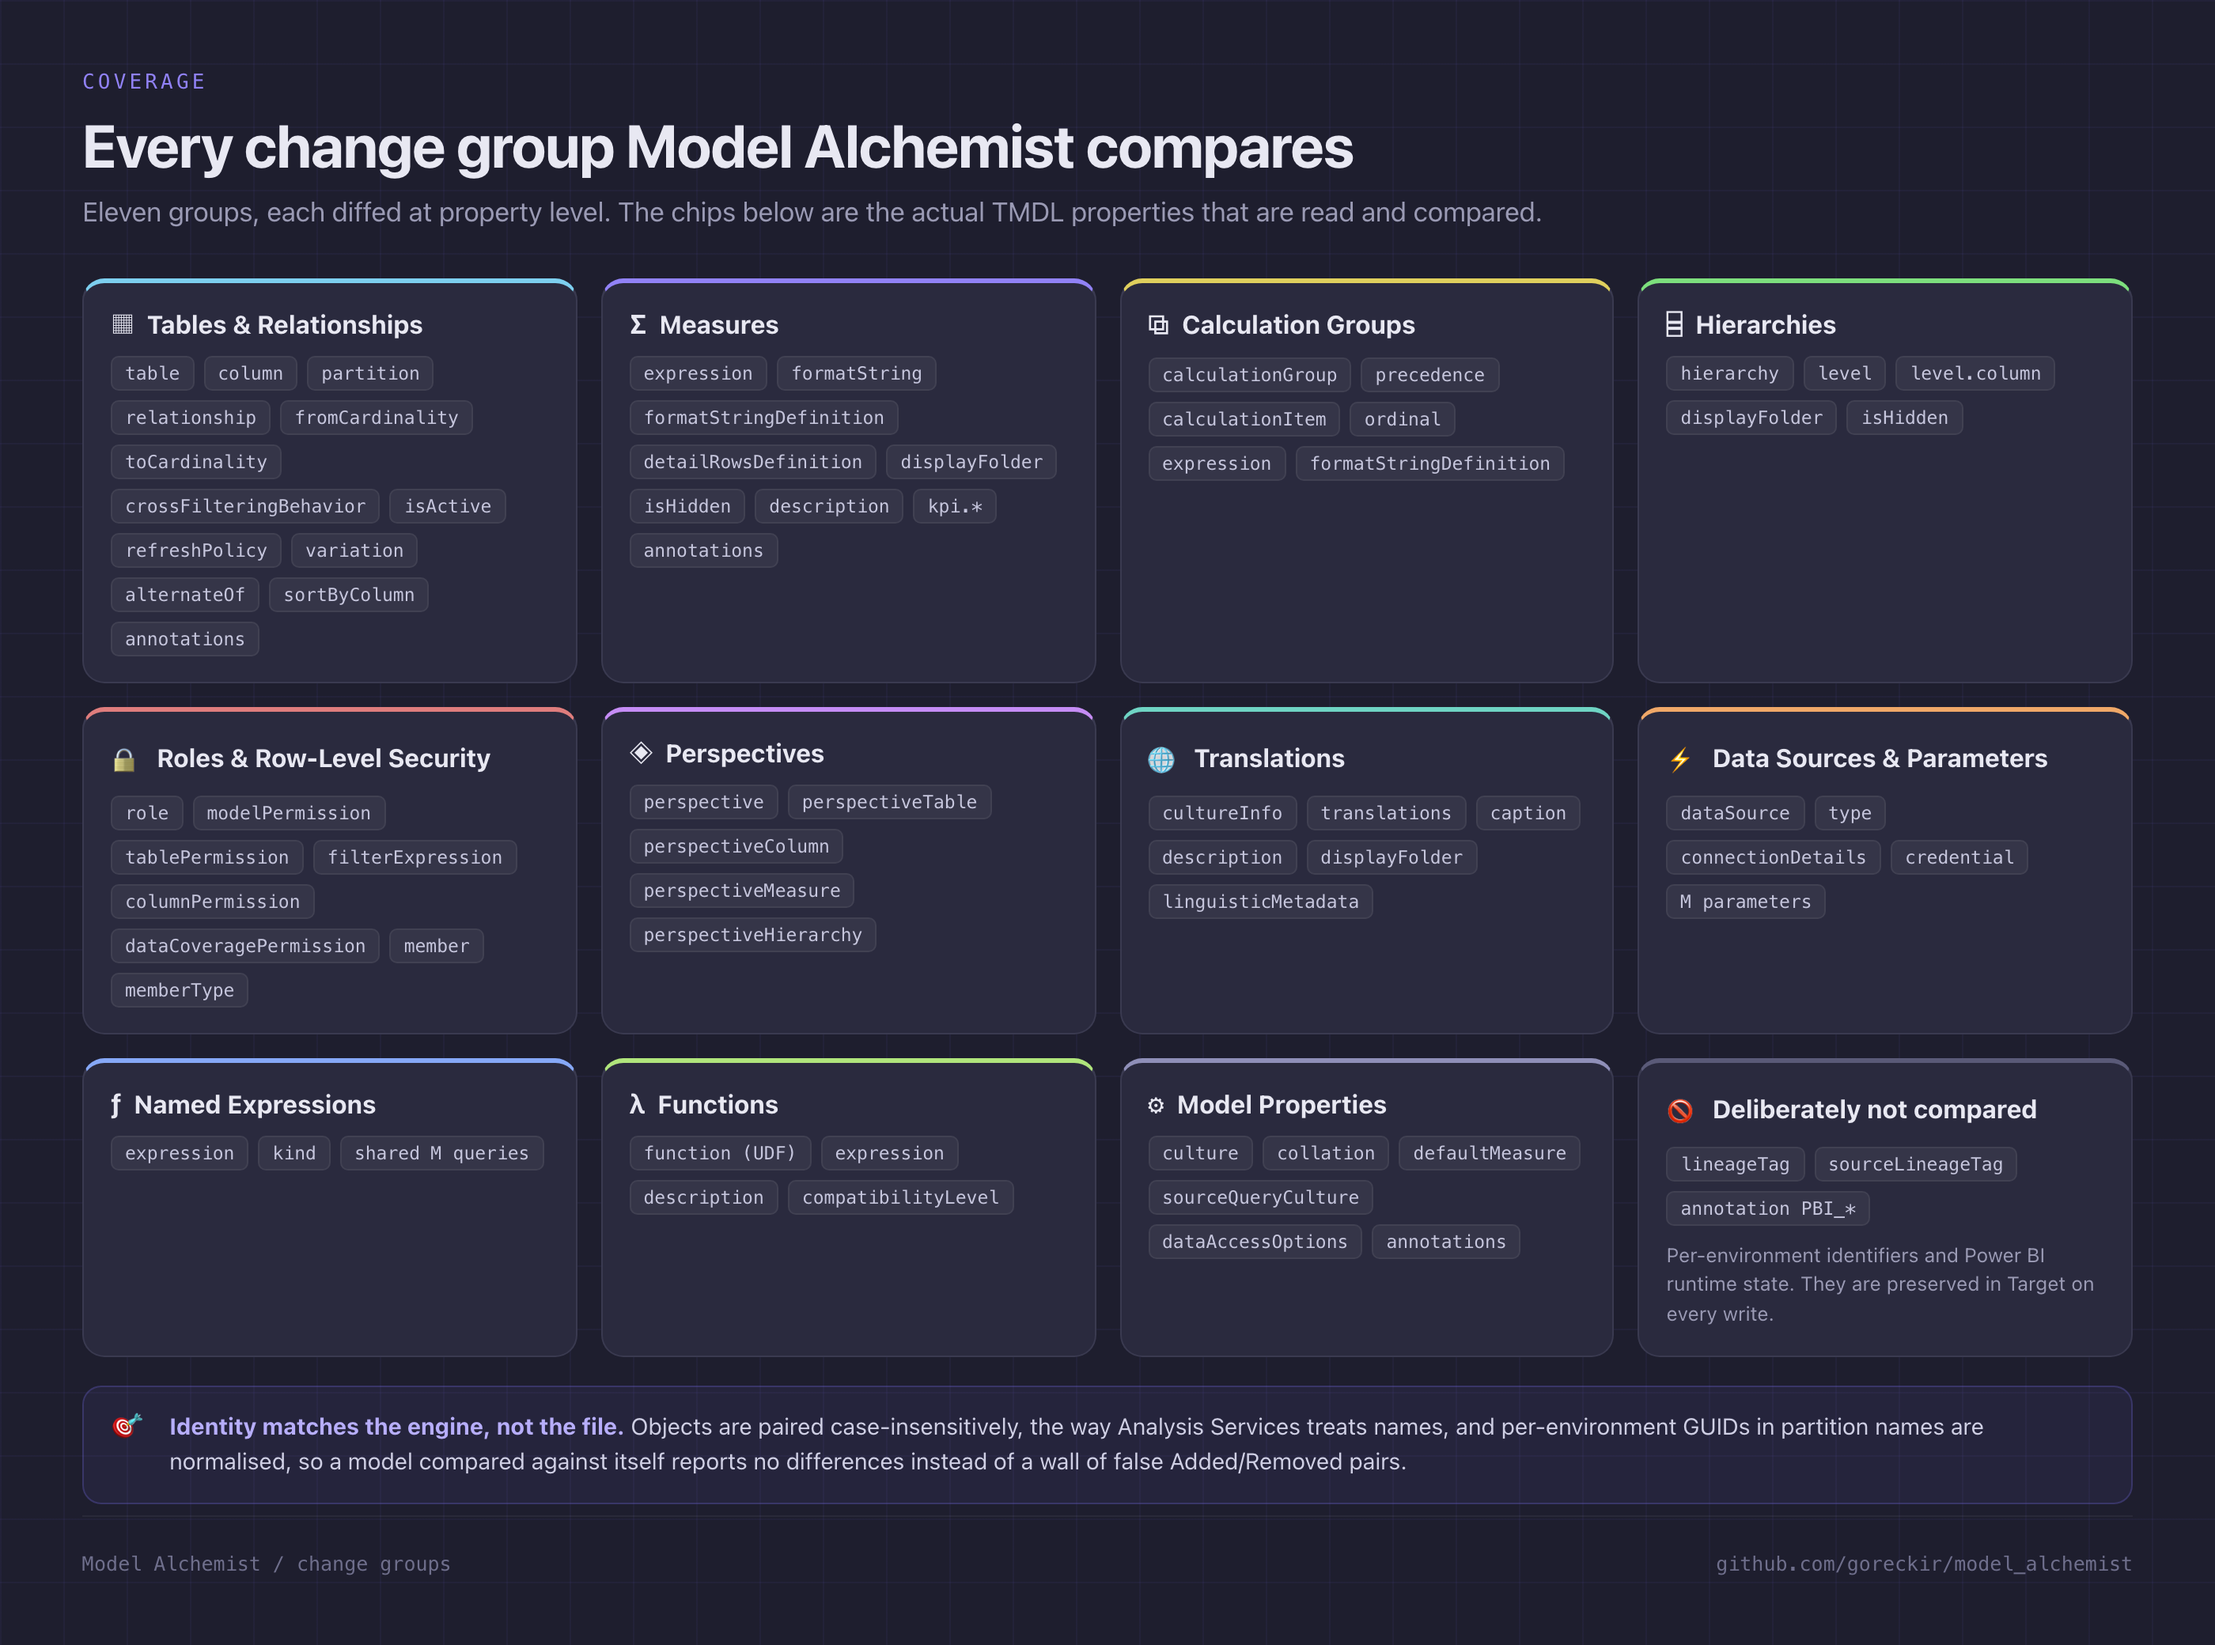
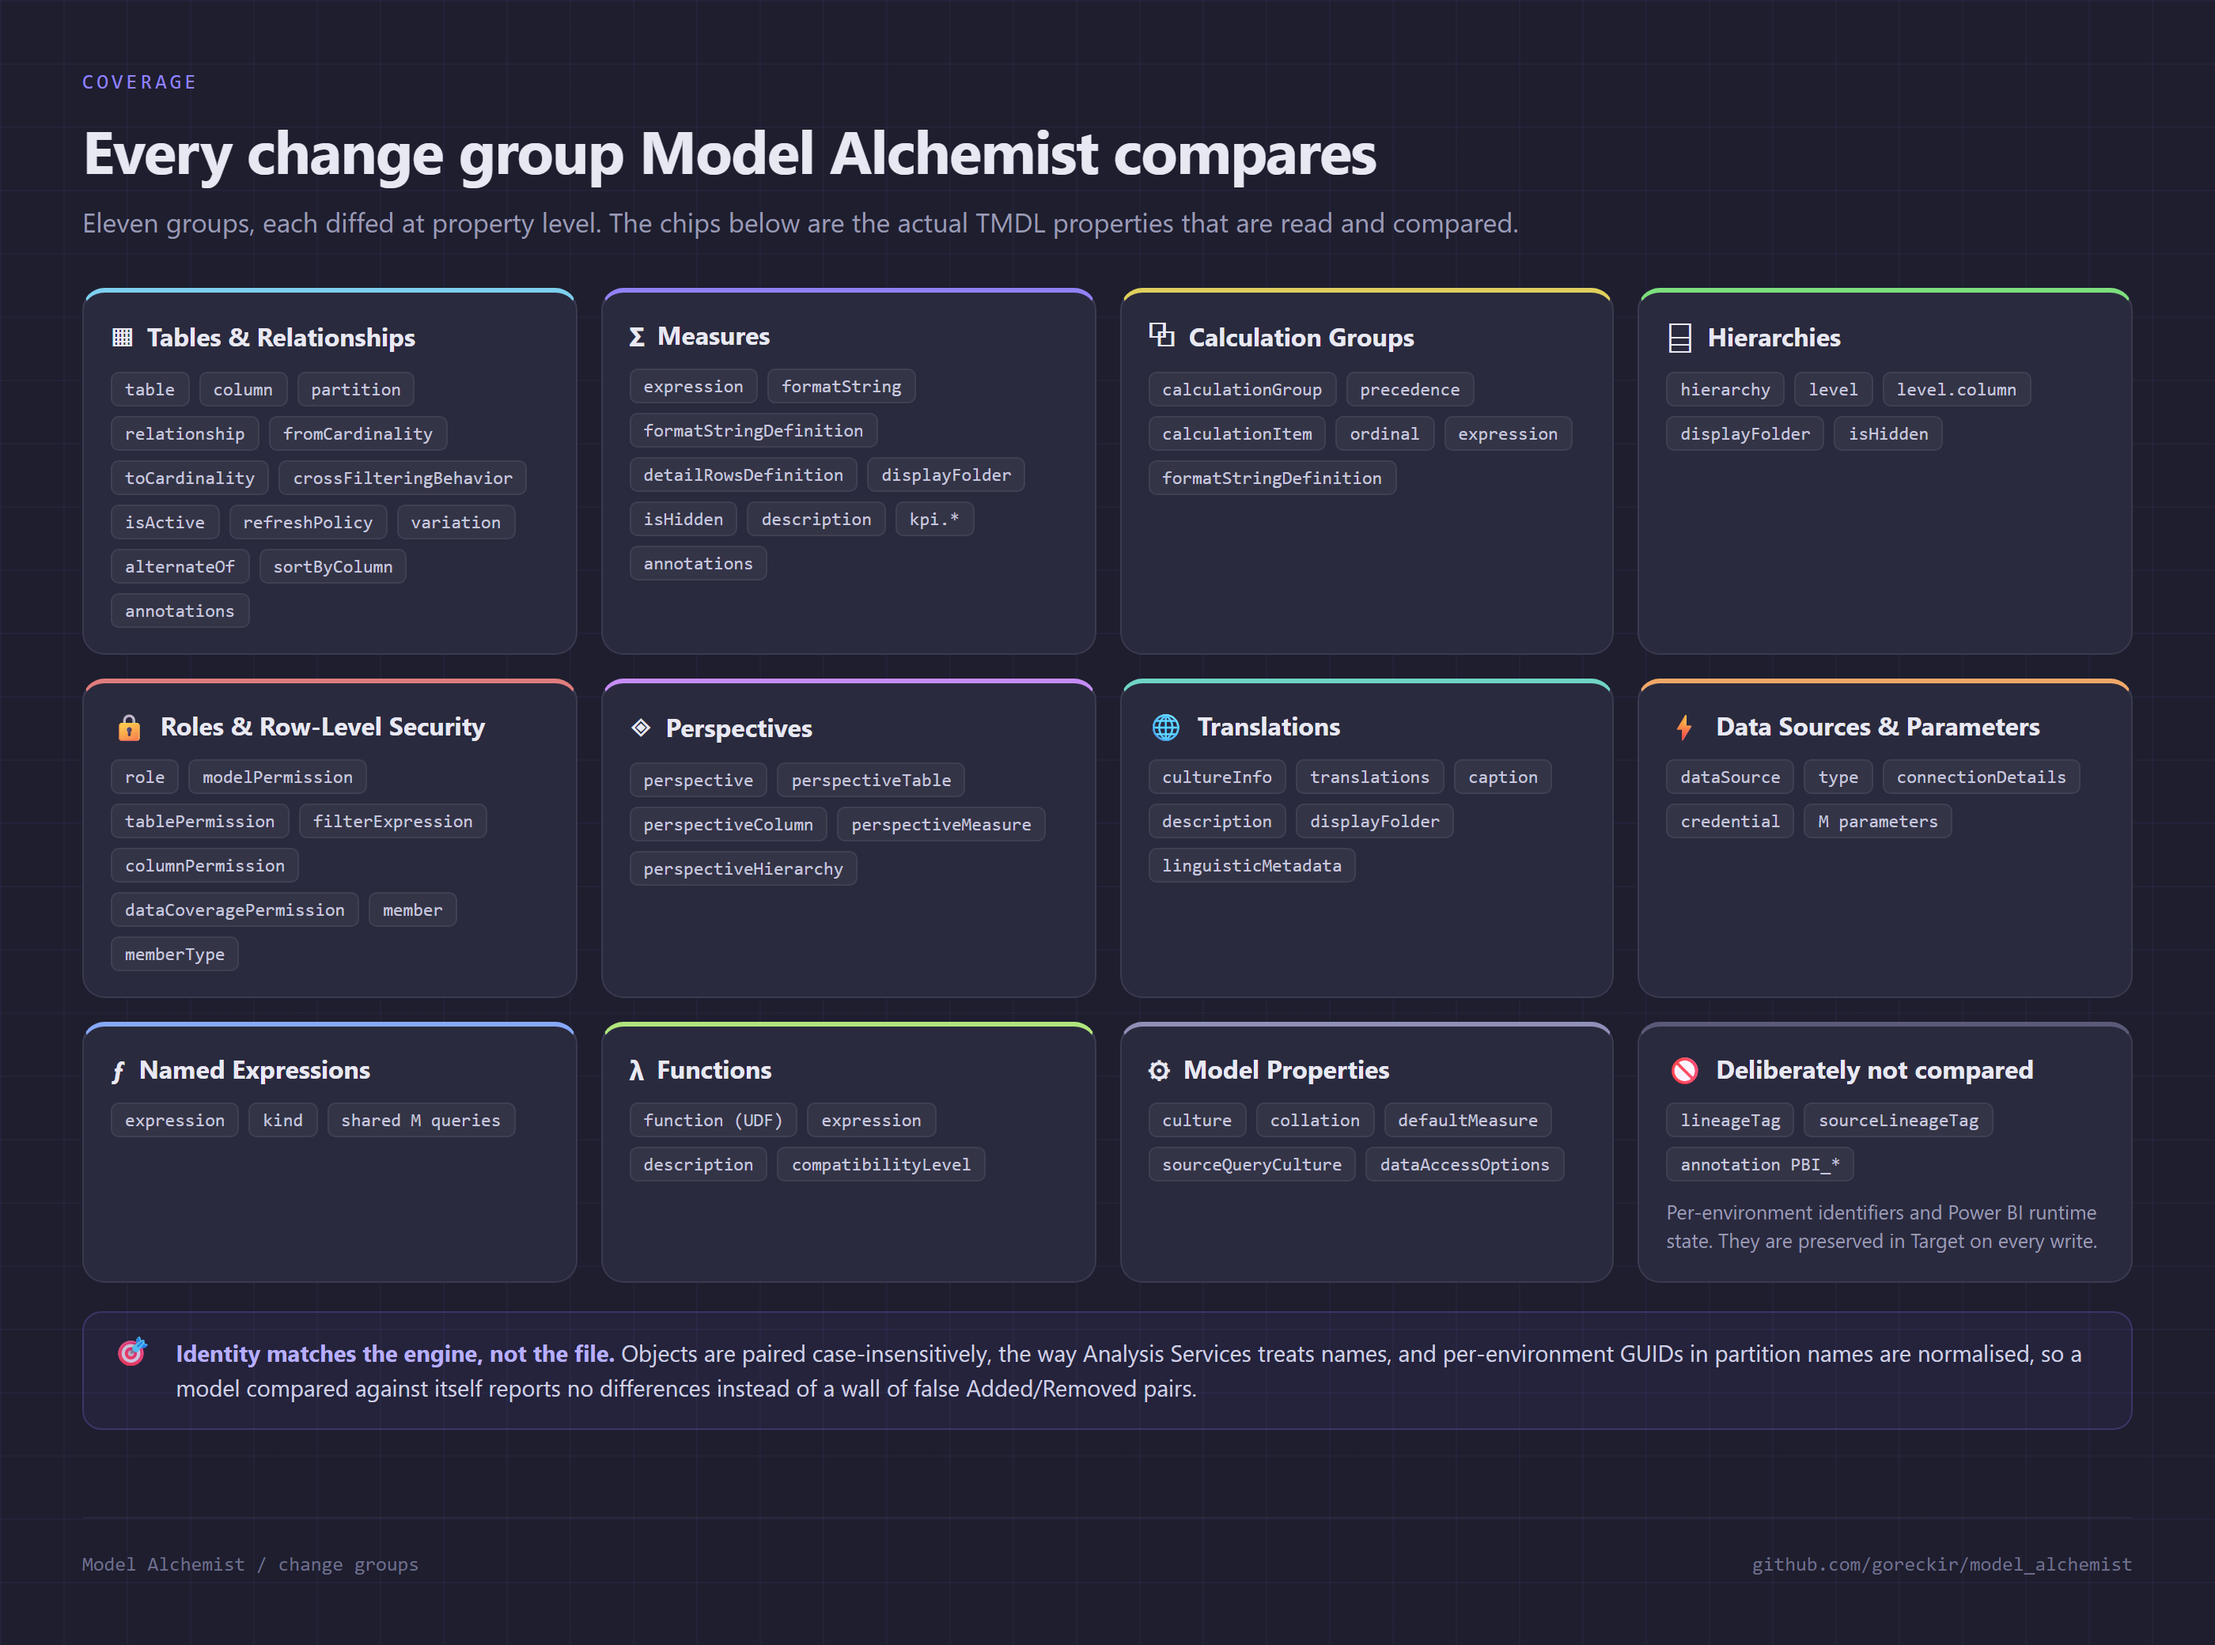
README cleanup: safety gates as text, accurate coverage diagram, drop old screenshots
- "Deploying safely" lists the gates as text, including the v5.2.0
  dependency checks; diagram-deploy-safety.png is re-rendered uncropped
  with the same content for posts and slides.
- diagram-coverage: remove the "annotations" chip from Model Properties;
  model-level annotations are a documented known limitation.
- "What you get": five checks run before the write (was "six").
- Remove the v4.10-era screenshot-*.png and assets/src/screenshots.js
  (Contoso models), superseded by the Demo Kit recordings; CONTRIBUTING
  points to recordings/ instead.
- render.js can render only named outputs, so one edited source does not
  re-encode every PNG.

diff --git a/assets/src/render.js b/assets/src/render.js
@@ -22,13 +22,19 @@ const TARGETS = [
     { file: "banner.html",          out: "banner.png",                  width: 1280, height: 360, scale: 2 },
     { file: 'diagram-flow.html',    out: 'diagram-how-it-works.png',    width: 1400, height: 760, scale: 2 },
     { file: 'diagram-coverage.html',out: 'diagram-coverage.png',        width: 1400, height: 1040, scale: 2 },
-    { file: 'diagram-safety.html',  out: 'diagram-deploy-safety.png',   width: 1400, height: 830, scale: 2 },
+    { file: 'diagram-safety.html',  out: 'diagram-deploy-safety.png',   width: 1400, height: 1130, scale: 2 },
     { file: 'diagram-sources.html', out: 'diagram-source-target.png',   width: 1400, height: 700, scale: 2 }
 ];
 
+// Optional arguments name the outputs to render (e.g. `diagram-coverage.png`),
+// so one edited source does not re-encode every other PNG.
+const only = process.argv.slice(2);
+const selected = only.length ? TARGETS.filter(t => only.includes(path.basename(t.out))) : TARGETS;
+
 (async () => {
+    if (!selected.length) throw new Error(`No target matches ${only.join(', ')}`);
     const browser = await chromium.launch();
-    for (const target of TARGETS) {
+    for (const target of selected) {
         const page = await browser.newPage({
             viewport: { width: target.width, height: target.height },
             deviceScaleFactor: target.scale || 2

diff --git a/assets/src/diagram-safety.html b/assets/src/diagram-safety.html
@@ -1,7 +1,7 @@
 <!doctype html><meta charset="utf-8">
 <link rel="stylesheet" href="theme.css">
 <style>
-  body { width: 1400px; height: 830px; overflow: hidden; }
+  body { width: 1400px; height: 1130px; overflow: hidden; }
   .lane { display: grid; grid-template-columns: 190px 1fr; gap: 22px; margin-top: 26px; }
   .laneName {
       font-family: var(--mono); font-size: 12.5px; letter-spacing: .1em; text-transform: uppercase;
@@ -42,7 +42,7 @@
     <div class="stack">
       <div class="gate c-block">
         <div class="n">1</div>
-        <div><h4>Dependency validation</h4><p>Missing parent table or relationship endpoint, a calculationItem without its calculation group, a duplicate relationship, a perspective or role pointing at something that will not exist, compatibility level too low.</p></div>
+        <div><h4>Dependency validation</h4><p>Missing parent table or relationship endpoint, a calculationItem without its calculation group, a duplicate relationship, a perspective or role pointing at something that will not exist, a measure calling a function or named expression the target lacks, a removed function or expression the target still uses, compatibility level too low.</p></div>
         <div class="outcome stop">hard error<br>→ deploy blocked</div>
       </div>
       <div class="gate c-guard">

diff --git a/assets/src/diagram-coverage.html b/assets/src/diagram-coverage.html
@@ -63,7 +63,7 @@
       <ul><li>function (UDF)</li><li>expression</li><li>description</li><li>compatibilityLevel</li></ul></div>
 
     <div class="g a-model"><h3><span class="ico">⚙</span> Model Properties</h3>
-      <ul><li>culture</li><li>collation</li><li>defaultMeasure</li><li>sourceQueryCulture</li><li>dataAccessOptions</li><li>annotations</li></ul></div>
+      <ul><li>culture</li><li>collation</li><li>defaultMeasure</li><li>sourceQueryCulture</li><li>dataAccessOptions</li></ul></div>
 
     <div class="g" style="--accent:#5a5a78; display:flex; flex-direction:column; justify-content:center;">
       <h3><span class="ico">🚫</span> Deliberately not compared</h3>

diff --git a/README.md b/README.md
@@ -29,7 +29,7 @@ It exists because "publish" is all-or-nothing. When one measure needs to move fr
 |---|---|---|
 | **Know what changed** before anyone signs off | An object-level diff across 11 change groups, with the exact changed fragment highlighted inside DAX and Power Query | [See it working](#see-it-working) |
 | **Ship one fix**, not the whole model | Tick the objects to promote. Everything else in the target is left byte-for-byte as it was | [How it works](#how-it-works) |
-| **Not break production** | Six checks run before a single byte is written, and a failed write is rolled back | [Deploying safely](#deploying-safely) |
+| **Not break production** | Five checks run before a single byte is written, and a failed local write is rolled back | [Deploying safely](#deploying-safely) |
 | **Compare a branch, or two Fabric workspaces** | Source and target are chosen independently: local, Fabric, or a mix | [Source and target](#source-and-target) |
 | **Prove what shipped** | Per-object deploy log, plus CSV / Markdown / HTML export of any comparison | [Quickstart](#quickstart) |
 | **Refresh only what needs it** | After a Fabric deploy, an Enhanced Refresh scoped to the affected tables with per-table status | [Deploying safely](#deploying-safely) |
@@ -72,7 +72,20 @@ The target is someone's production model. Six gates stand between clicking Deplo
 
 For a Fabric target, open the refresh modal and click **Check Target State** to inspect its current processing state at any time. Objects that need attention can be refreshed or recalculated individually, as a selection, or all together. The same readiness check runs after a successful Fabric deployment and remains separate from refresh recommendations inferred from the deployed changes.
 
-![The Model Alchemist deployment safety model. Before any write: dependency validation blocks on hard errors, cascade and cardinality warnings appear in the preview, a Fabric drift check blocks if the live model changed since the comparison, the whole .SemanticModel folder is backed up, and a dry-run preview lists every file operation without writing. Then the write applies only the ticked changes, transactionally for a local target and via updateDefinition for a Fabric target, followed by an Enhanced Refresh scoped to the affected tables.](assets/diagram-deploy-safety.png)
+Before any write:
+
+1. **Dependency validation** (hard error, deploy blocked). A missing parent table or relationship endpoint, a calculation item without its calculation group, a duplicate relationship, a perspective or role pointing at something that will not exist, a measure calling a function or named expression the target lacks, a removed function or expression the target still uses, or a compatibility level that is too low.
+2. **Cascade and cardinality warnings** (shown in the preview). Relationships orphaned by a removed column or table are listed for automatic removal. A cardinality change states which key column must be unique before the engine will accept it.
+3. **Fabric drift check** (`PROD_CHANGED_SINCE_COMPARE`, deploy blocked). The live definition is re-fetched and compared with the snapshot your comparison was taken from. If someone else published in between, the changed files are named.
+4. **Backup.** The whole `.SemanticModel` folder is copied next to the model, not just `definition/`, so `definition.pbism`, the diagram layout and every sibling artifact come back too.
+5. **Preview.** A dry run lists every planned file operation, in order, with the file it touches. Anything a block-level write ships beyond the properties you reviewed is named explicitly.
+
+Then the write:
+
+6. **Apply.** Only the changes you ticked are written. Everything else in the target stays byte-for-byte as it was, including its `lineageTag`, `sourceLineageTag` and `PBI_*` annotations.
+   - **Local target:** transactional. Every file an operation can touch is snapshotted first, and on the first failure the run stops and all of them are restored.
+   - **Fabric target:** changes are applied on top of the definition just fetched and uploaded with `updateDefinition`. A slow upload is reported as unknown, never as failed.
+   - **Refresh, scoped** (Fabric): Enhanced Refresh of only the tables the deployed changes affect, each with the cheapest refresh that works (`dataOnly`, `calculate` or `automatic`), with per-table status.
 
 ---
 

diff --git a/CONTRIBUTING.md b/CONTRIBUTING.md
@@ -89,12 +89,14 @@ This needs Playwright's Chromium, which is a development-only tool and deliberat
 npm install --no-save playwright
 npx playwright install chromium
 
-node assets/src/render.js        # logo, banner, 4 diagrams
-node assets/src/screenshots.js   # 2 product screenshots
+node assets/src/render.js                       # logo, banner, 4 diagrams
+node assets/src/render.js diagram-coverage.png  # only the named output(s)
 ```
 
-Both scripts accept `PLAYWRIGHT_PATH` if Playwright is installed somewhere else.
+`render.js` accepts `PLAYWRIGHT_PATH` if Playwright is installed somewhere else.
+
+Product recordings (the GIFs in `assets/recordings/` and their MP4 cuts) are not made here. They are scripted against the Demo Kit by `recordings/record.js`, which has its own `package.json`, runs the app in Presentation Mode and passes every take through an OCR privacy gate. See the header of `recordings/record.js`.
 
 `assets/src/logo.svg` is the single source for the product mark. `render.js` emits it twice: `assets/logo.png` at 512px for docs, slides and anywhere the mark is needed on its own, and `public/favicon.png` at 128px, which the app serves as its browser-tab icon.
 
-Editing an image means editing its source (`assets/src/*.html`, `assets/src/logo.svg`, `assets/src/theme.css`) and re-running the script. Do not touch the PNGs directly. `screenshots.js` neutralises the backup-path field before capturing, so no local filesystem path from the machine that ran it ends up in a published image.
+Editing an image means editing its source (`assets/src/*.html`, `assets/src/logo.svg`, `assets/src/theme.css`) and re-running the script. Do not touch the PNGs directly.
